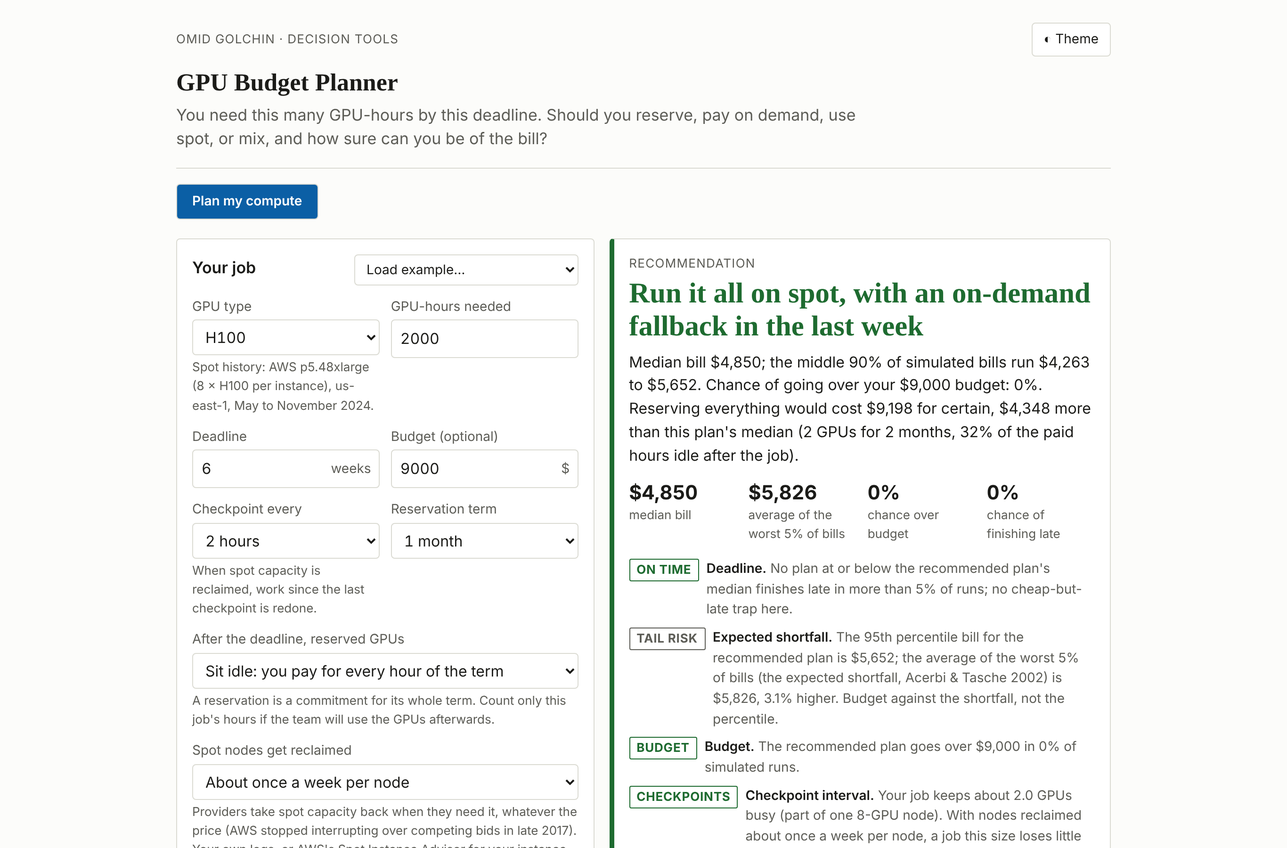
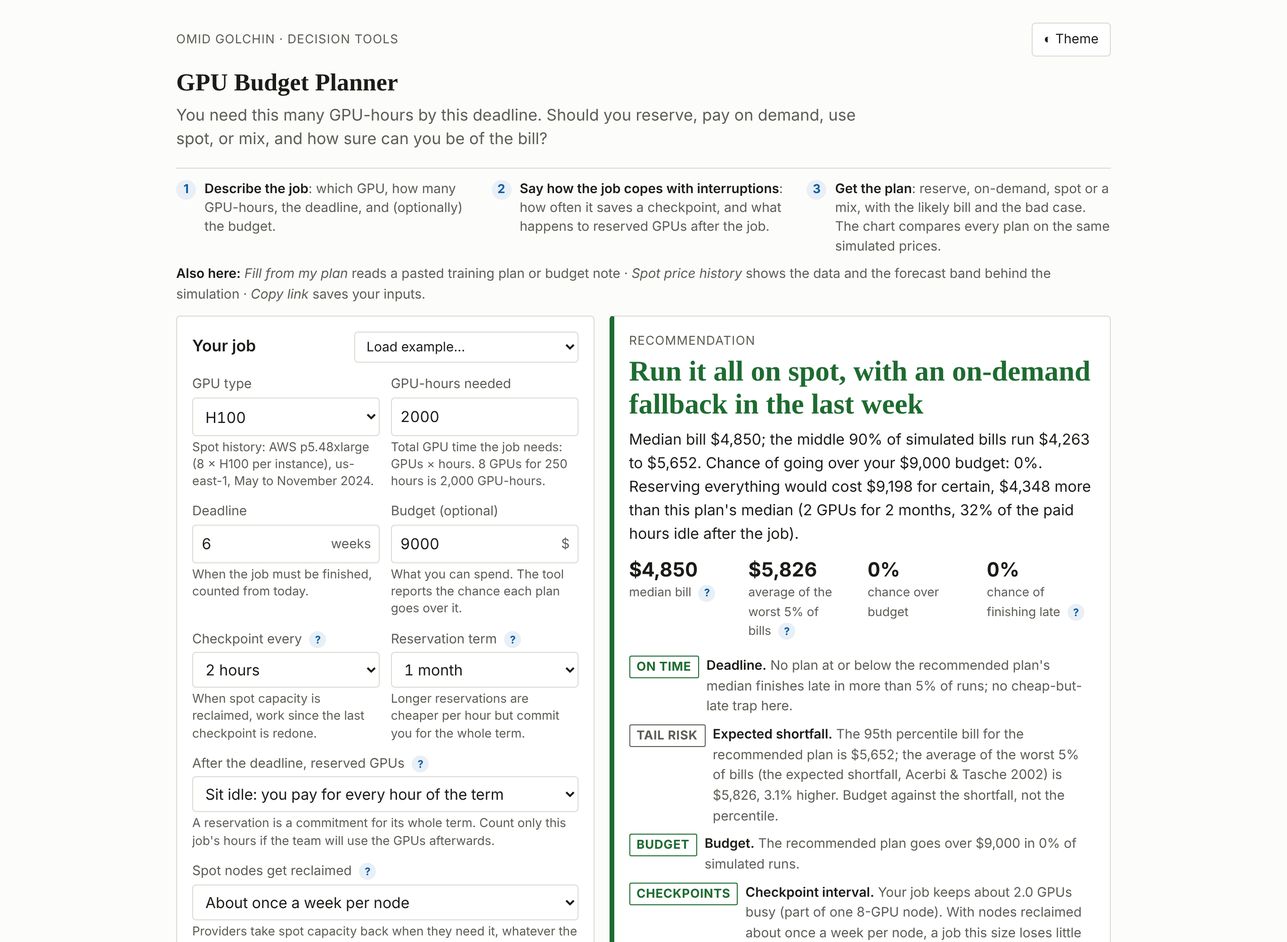
Drop the single-tab switch; explain every input and result
Each mode now opens with a three-step guide, every input has a hint saying what the number is and why it matters, and technical terms in inputs and results have a ? that opens a plain-language explanation. Kit v3: explanations, arrow-key tabs, aligned input columns, slanted category labels on crowded charts, one shared list of tools in the footer. README, hero GIF and screenshots match the page.

Changed region(s): [[0.1245, 0.0311, 0.8712, 1.0], [0.8089, 0.0311, 0.8712, 0.0622]]

diff --git a/docs/tool-common.js b/docs/tool-common.js
@@ -1,4 +1,4 @@
-/* omid-tools-kit / tool-common.js: helpers shared by every tool (v2).
+/* omid-tools-kit / tool-common.js: helpers shared by every tool (v3).
  *
  *   Tool.readParams(defaults)      inputs from the URL query, typed like defaults
  *   Tool.writeParams(obj)          inputs into the URL (replaceState, no reload)
@@ -6,6 +6,9 @@
  *   Tool.fmt.*                     number formatting
  *   Tool.lineChart(el, spec)       a small, dependency-free SVG line chart
  *   Tool.assist(config)            the "Fill from description" AI assist
+ *   Tool.explain(glossary)         "?" buttons that open a plain-language explanation
+ *   Tool.siblings(currentRepo)     the "More tools" footer line, from one shared list
+ *   Tool.tabs(tablist)             arrow-key support for a mode switch
  *
  * No dependencies. Works from file:// and on GitHub Pages.
  */
@@ -132,6 +135,14 @@
     var yMax = spec.yMax != null ? spec.yMax : Math.max.apply(null, ys);
     if (yMax === yMin) { yMax += 1; yMin -= 1; }
     if (spec.yMax == null) yMax += (yMax - yMin) * 0.06;
+    // category labels that do not fit side by side are slanted, with room made below
+    var slant = false;
+    if (spec.xTicks && spec.xFormat && spec.xTicks.length > 1) {
+      var maxLen = 0;
+      spec.xTicks.forEach(function (v) { maxLen = Math.max(maxLen, String(spec.xFormat(v)).length); });
+      var room = (W - m.l - m.r) / spec.xTicks.length;
+      if (maxLen * 6.3 > room - 6) { slant = true; m.b += Math.min(78, maxLen * 4.4); }
+    }
     var X = function (v) { return m.l + (v - xMin) / (xMax - xMin || 1) * (W - m.l - m.r); };
     var Y = function (v) { return H - m.b - (v - yMin) / (yMax - yMin) * (H - m.t - m.b); };
     var svg = el("svg", { viewBox: "0 0 " + W + " " + H, role: "img", "aria-label": spec.aria || spec.yTitle || "chart" }, host);
@@ -148,7 +159,9 @@
     xt.forEach(function (v) {
       if (v < xMin - 1e-12 || v > xMax + 1e-12) return;
       el("line", { x1: X(v), x2: X(v), y1: H - m.b, y2: H - m.b + 4, stroke: muted }, svg);
-      var t = el("text", { x: X(v), y: H - m.b + 17, "text-anchor": "middle" }, svg); t.textContent = xFmt(v);
+      var t = slant ? el("text", { x: X(v) + 4, y: H - m.b + 13, "text-anchor": "end", transform: "rotate(-38 " + (X(v) + 4) + " " + (H - m.b + 13) + ")" }, svg)
+        : el("text", { x: X(v), y: H - m.b + 17, "text-anchor": "middle" }, svg);
+      t.textContent = xFmt(v);
     });
     el("line", { x1: m.l, x2: W - m.r, y1: H - m.b, y2: H - m.b, stroke: muted }, svg);
     if (spec.xTitle) { var xtT = el("text", { x: (m.l + W - m.r) / 2, y: H - 6, "text-anchor": "middle", class: "title" }, svg); xtT.textContent = spec.xTitle; }
@@ -390,7 +403,144 @@
     return { buildPrompt: function (t) { return buildPrompt(cfg, t); }, parseReply: parseReply };
   }
 
-  var api = { readParams: readParams, writeParams: writeParams, copy: copy, fmt: fmt, lineChart: lineChart, niceTicks: niceTicks, assist: assist, _buildPrompt: buildPrompt, _parseReply: parseReply, _quoteFound: quoteFound, _coerce: coerce };
+
+  /* ---------------- explanations ("?" buttons) ----------------
+   * Markup: <button type="button" class="tip" data-tip="key">?</button>
+   * placed next to a label or result. glossary[key] = { t: "Term", d: "Plain explanation" }.
+   * The explanation opens as a small card under the button; Esc, a click
+   * elsewhere, or switching modes closes it. No layout shift: the card floats.
+   */
+  var tipCard = null, tipOwner = null;
+  function closeTip() {
+    if (tipCard) { tipCard.remove(); tipCard = null; }
+    if (tipOwner) { tipOwner.setAttribute("aria-expanded", "false"); tipOwner = null; }
+  }
+  function placeTip(btn) {
+    if (!tipCard) return;
+    var r = btn.getBoundingClientRect(), vw = document.documentElement.clientWidth;
+    var w = Math.min(340, vw - 24);
+    tipCard.style.width = w + "px";
+    var left = Math.max(12, Math.min(r.left + r.width / 2 - w / 2, vw - w - 12));
+    tipCard.style.left = (left + window.scrollX) + "px";
+    tipCard.style.top = (r.bottom + window.scrollY + 6) + "px";
+  }
+  var GLOSS = {};
+  function decorate(root) {
+    (root.querySelectorAll ? root : document).querySelectorAll("[data-tip]:not(.tip)").forEach(function (btn) {
+      var g = GLOSS[btn.getAttribute("data-tip")];
+      if (!g) return;
+      btn.classList.add("tip");
+      if (btn.tagName === "BUTTON") btn.type = "button";
+      if (!btn.textContent.trim()) btn.textContent = "?";
+      btn.setAttribute("aria-label", "What is " + g.t.replace(/[.?:]$/, "") + "?");
+      btn.setAttribute("aria-expanded", "false");
+      // keep the "?" on the same line as the last word before it
+      var prev = btn.previousSibling;
+      if (prev && prev.nodeType === 3 && /\S/.test(prev.nodeValue) && !(btn.parentNode.classList && btn.parentNode.classList.contains("nowrap"))) {
+        var m = prev.nodeValue.match(/^([\s\S]*?)(\S+)(\s*)$/);
+        if (m) {
+          prev.nodeValue = m[1];
+          var span = document.createElement("span"); span.className = "nowrap";
+          span.appendChild(document.createTextNode(m[2] + (m[3] ? "\u00a0" : "")));
+          btn.parentNode.insertBefore(span, btn); span.appendChild(btn);
+        }
+      }
+    });
+  }
+  /* Align labels, inputs and hints across the two input columns (CSS subgrid). */
+  function alignFields(root) {
+    if (typeof CSS === "undefined" || !CSS.supports || !CSS.supports("grid-template-rows", "subgrid")) return;
+    (root || document).querySelectorAll(".fields").forEach(function (grid) {
+      grid.classList.add("sg-on");
+      Array.prototype.forEach.call(grid.children, function (f) {
+        if (!f.classList.contains("field") || f.classList.contains("full") || f.classList.contains("sg")) return;
+        var kids = Array.prototype.slice.call(f.children);
+        if (!kids.length || kids[0].tagName !== "LABEL" || kids.length < 2) return;
+        var after = document.createElement("div"); after.className = "field-after";
+        kids.slice(2).forEach(function (k) { after.appendChild(k); });
+        f.appendChild(after); f.classList.add("sg");
+      });
+    });
+  }
+  function explain(glossary) {
+    Object.keys(glossary || {}).forEach(function (k) { GLOSS[k] = glossary[k]; });
+    decorate(document);
+    if (explain._wired) return;
+    explain._wired = true;
+    new MutationObserver(function (ms) { ms.forEach(function (m) { m.addedNodes.forEach(function (n) { if (n.nodeType === 1) { if (n.hasAttribute("data-tip")) decorate(n.parentNode || document); else decorate(n); } }); }); })
+      .observe(document.body, { childList: true, subtree: true });
+    document.addEventListener("click", function (e) {
+      var btn = e.target.closest ? e.target.closest("[data-tip]") : null;
+      if (btn && GLOSS[btn.getAttribute("data-tip")]) {
+        e.preventDefault();
+        var same = tipOwner === btn; closeTip(); if (same) return;
+        var g = GLOSS[btn.getAttribute("data-tip")];
+        tipCard = document.createElement("div");
+        tipCard.className = "tip-card"; tipCard.setAttribute("role", "note");
+        tipCard.id = "tipc-" + Math.random().toString(36).slice(2, 8);
+        btn.setAttribute("aria-describedby", tipCard.id);
+        tipCard.innerHTML = '<p class="tip-t">' + esc(g.t) + '</p><p class="tip-d">' + g.d + "</p>";
+        document.body.appendChild(tipCard);
+        tipOwner = btn; btn.setAttribute("aria-expanded", "true"); placeTip(btn);
+        return;
+      }
+      if (tipCard && !tipCard.contains(e.target)) closeTip();
+    });
+    document.addEventListener("keydown", function (e) { if (e.key === "Escape" && tipCard) { var o = tipOwner; closeTip(); if (o) o.focus(); } });
+    window.addEventListener("resize", function () { if (tipOwner) placeTip(tipOwner); });
+  }
+
+  /* ---------------- the shared tool list ---------------- */
+  var TOOLS = [
+    ["bayesian-ab-lab", "A/B Test Decision Tool"],
+    ["queue-simulator", "Call Center Staffing Planner"],
+    ["experiment-hazard-simulator", "Agent Eval Planner"],
+    ["llm-eval-error-bar", "Error Bars for LLM Evals"],
+    ["ordering-policy-tester", "Ordering Policy Tester"],
+    ["order-quantity-planner", "Order Quantity Planner"],
+    ["production-line-simulator", "Production Line Bottleneck Finder"],
+    ["persuasion-checker", "Which Draft Persuades?"],
+    ["gpu-budget-planner", "GPU Budget Planner"]
+  ];
+  function siblings(current) {
+    var host = document.querySelector(".kit-siblings");
+    if (!host) return;
+    host.innerHTML = '<span class="kit-siblings-label">More tools:</span> ' + TOOLS.map(function (t) {
+      return t[0] === current ? '<a href="https://omidgolchin.github.io/' + t[0] + '/" aria-current="page">' + t[1] + "</a>"
+        : '<a href="https://omidgolchin.github.io/' + t[0] + '/">' + t[1] + "</a>";
+    }).join(" · ");
+  }
+
+  /* ---------------- tabs: arrow keys, panels ---------------- */
+  function tabs(list) {
+    list = list || document.querySelector("[role=tablist]");
+    if (!list) return;
+    var items = Array.prototype.slice.call(list.querySelectorAll("[role=tab]"));
+    items.forEach(function (t) {
+      t.addEventListener("click", function () { closeTip(); });
+      t.addEventListener("keydown", function (e) {
+        var i = items.indexOf(t), j = -1;
+        if (e.key === "ArrowRight") j = (i + 1) % items.length;
+        else if (e.key === "ArrowLeft") j = (i - 1 + items.length) % items.length;
+        else if (e.key === "Home") j = 0; else if (e.key === "End") j = items.length - 1;
+        if (j < 0) return;
+        e.preventDefault(); items[j].focus(); items[j].click();
+      });
+    });
+    var sync = function () { items.forEach(function (t) { t.tabIndex = t.getAttribute("aria-selected") === "true" ? 0 : -1; }); };
+    sync(); new MutationObserver(sync).observe(list, { subtree: true, attributes: true, attributeFilter: ["aria-selected"] });
+  }
+
+  if (typeof document !== "undefined") {
+    document.addEventListener("DOMContentLoaded", function () {
+      var m = location.pathname.match(/\/([^\/]+)\/(?:docs\/)?(?:index\.html)?$/);
+      siblings(m ? m[1] : "");
+      tabs();
+      alignFields();
+    });
+  }
+
+  var api = { explain: explain, alignFields: alignFields, closeTip: closeTip, siblings: siblings, tabs: tabs, TOOLS: TOOLS, readParams: readParams, writeParams: writeParams, copy: copy, fmt: fmt, lineChart: lineChart, niceTicks: niceTicks, assist: assist, _buildPrompt: buildPrompt, _parseReply: parseReply, _quoteFound: quoteFound, _coerce: coerce };
   if (typeof module !== "undefined" && module.exports) module.exports = api;
   if (typeof window !== "undefined") window.Tool = api;
 })();

diff --git a/docs/index.html b/docs/index.html
@@ -27,8 +27,13 @@
     <p class="kit-tagline">You need this many GPU-hours by this deadline. Should you reserve, pay on demand, use spot, or mix, and how sure can you be of the bill?</p>
   </header>
 
-  <div class="tool-modes" role="tablist" aria-label="Mode">
-    <button type="button" role="tab" class="active" aria-selected="true">Plan my compute</button>
+  <div class="guide" aria-label="How to use this tool">
+    <ol class="steps">
+      <li><b>Describe the job</b>: which GPU, how many GPU-hours, the deadline, and (optionally) the budget.</li>
+      <li><b>Say how the job copes with interruptions</b>: how often it saves a checkpoint, and what happens to reserved GPUs after the job.</li>
+      <li><b>Get the plan</b>: reserve, on-demand, spot or a mix, with the likely bill and the bad case. The chart compares every plan on the same simulated prices.</li>
+    </ol>
+    <p class="also"><b>Also here:</b> <i>Fill from my plan</i> reads a pasted training plan or budget note · <i>Spot price history</i> shows the data and the forecast band behind the simulation · <i>Copy link</i> saves your inputs.</p>
   </div>
 
   <div class="work">
@@ -45,10 +50,10 @@
             <option value="v100">V100 (older generation)</option>
           </select>
           <div class="hint" id="gpuHint"></div></div>
-        <div class="field"><label for="hours">GPU-hours needed</label><input id="hours" type="number" min="1" step="any" inputmode="decimal"></div>
-        <div class="field"><label for="weeks">Deadline</label><div class="input-wrap"><input id="weeks" type="number" min="1" max="52" step="1" inputmode="numeric"><span class="unit">weeks</span></div></div>
-        <div class="field"><label for="budget">Budget <span class="muted">(optional)</span></label><div class="input-wrap"><input id="budget" type="number" min="0" step="any" inputmode="decimal" placeholder="no limit"><span class="unit">$</span></div></div>
-        <div class="field"><label for="ckpt">Checkpoint every</label>
+        <div class="field"><label for="hours">GPU-hours needed</label><input id="hours" type="number" min="1" step="any" inputmode="decimal"><div class="hint">Total GPU time the job needs: GPUs × hours. 8 GPUs for 250 hours is 2,000 GPU-hours.</div></div>
+        <div class="field"><label for="weeks">Deadline</label><div class="input-wrap"><input id="weeks" type="number" min="1" max="52" step="1" inputmode="numeric"><span class="unit">weeks</span></div><div class="hint">When the job must be finished, counted from today.</div></div>
+        <div class="field"><label for="budget">Budget <span class="muted">(optional)</span></label><div class="input-wrap"><input id="budget" type="number" min="0" step="any" inputmode="decimal" placeholder="no limit"><span class="unit">$</span></div><div class="hint">What you can spend. The tool reports the chance each plan goes over it.</div></div>
+        <div class="field"><label for="ckpt">Checkpoint every <button type="button" data-tip="ckpt"></button></label>
           <select id="ckpt">
             <option value="0.5">30 minutes</option>
             <option value="1">1 hour</option>
@@ -59,7 +64,7 @@
             <option value="168">Once a week</option>
           </select>
           <div class="hint">When spot capacity is reclaimed, work since the last checkpoint is redone.</div></div>
-        <div class="field"><label for="term">Reservation term</label>
+        <div class="field"><label for="term">Reservation term <button type="button" data-tip="term"></button></label>
           <select id="term">
             <option value="1">1 month</option>
             <option value="3">3 months</option>
@@ -67,14 +72,14 @@
             <option value="12">12 months</option>
             <option value="24">24 months</option>
             <option value="36">36 months</option>
-          </select></div>
-        <div class="field full"><label for="after">After the deadline, reserved GPUs</label>
+          </select><div class="hint">Longer reservations are cheaper per hour but commit you for the whole term.</div></div>
+        <div class="field full"><label for="after">After the deadline, reserved GPUs <button type="button" data-tip="after"></button></label>
           <select id="after">
             <option value="idle" selected>Sit idle: you pay for every hour of the term</option>
             <option value="reuse">Go to other work: charge this job only its hours</option>
           </select>
           <div class="hint">A reservation is a commitment for its whole term. Count only this job's hours if the team will use the GPUs afterwards.</div></div>
-        <div class="field full"><label for="reclaim">Spot nodes get reclaimed</label>
+        <div class="field full"><label for="reclaim">Spot nodes get reclaimed <button type="button" data-tip="reclaim"></button></label>
           <select id="reclaim">
             <option value="0">Never: price cap only</option>
             <option value="0.033333">About once a month per node</option>
@@ -110,7 +115,7 @@
   </div>
 
   <section class="panel" style="margin-top:16px">
-    <h2>What each plan costs</h2>
+    <h2>What each plan costs <button type="button" data-tip="plans"></button></h2>
     <div class="svgchart" id="boxChart"></div>
     <p class="chart-caption" id="boxCaption"></p>
   </section>
@@ -123,8 +128,8 @@
         <div class="field"><label for="block">Bootstrap block length</label>
           <select id="block"><option value="7">7 days</option><option value="14">14 days</option><option value="28">28 days</option></select>
           <div class="hint">How much price history is resampled at a time. Longer blocks keep longer price runs. 28 days scored best in the coverage backtest.</div></div>
-        <div class="field"><label for="paths">Simulated price paths</label>
-          <select id="paths"><option value="200">200</option><option value="400">400</option><option value="800">800</option></select></div>
+        <div class="field"><label for="paths">Simulated price paths <button type="button" data-tip="paths"></button></label>
+          <select id="paths"><option value="200">200</option><option value="400">400</option><option value="800">800</option></select><div class="hint">More paths give steadier percentiles but take a little longer.</div></div>
       </div>
     </div>
   </details>
@@ -164,11 +169,7 @@ expected shortfall = average of the bills at or above the 95th percentile</div>
   </details>
 
   <footer class="kit-footer">
-    <p class="kit-siblings"><span class="kit-siblings-label">More tools:</span>
-      <a href="https://omidgolchin.github.io/bayesian-ab-lab/">A/B Test Decision Tool</a> ·
-      <a href="https://omidgolchin.github.io/queue-simulator/">Call Center Staffing Planner</a> ·
-      <a href="https://omidgolchin.github.io/experiment-hazard-simulator/">Agent Eval Planner</a> ·
-      <a href="https://omidgolchin.github.io/gpu-budget-planner/" aria-current="page">GPU Budget Planner</a></p>
+    <p class="kit-siblings"></p>
     <p>Built by Omid Golchin · <a href="https://github.com/omidgolchin/gpu-budget-planner">Code, tests and design decisions</a> · Everything runs in your browser; nothing you type is sent anywhere unless you use the AI fill with your own key.</p>
   </footer>
 </main>

diff --git a/docs/app.js b/docs/app.js
@@ -201,11 +201,11 @@
     $("verdict").className = "panel verdict " + rec.cls;
     last.title = title; last.body = body;
 
-    var k = [[F.money(W.median), "median bill"], [F.money(W.es95), "average of the worst 5% of bills"]];
+    var k = [[F.money(W.median), "median bill", "median"], [F.money(W.es95), "average of the worst 5% of bills", "es"]];
     if (v.budget !== null) k.push([F.pct(W.pOver, 0), "chance over budget"]);
     else k.push([W.interruptions ? W.interruptions.toFixed(1) : "0", "spot interruptions per run"]);
-    k.push([F.pct(W.pMiss, 0), "chance of finishing late"]);
-    $("kpis").innerHTML = k.map(function (x) { return '<div class="kpi"><span class="k-val">' + x[0] + '</span><span class="k-lbl">' + x[1] + "</span></div>"; }).join("");
+    k.push([F.pct(W.pMiss, 0), "chance of finishing late", "late"]);
+    $("kpis").innerHTML = k.map(function (x) { return '<div class="kpi"><span class="k-val">' + x[0] + '</span><span class="k-lbl">' + x[1] + (x[2] ? ' <button type="button" data-tip="' + x[2] + '"></button>' : "") + "</span></div>"; }).join("");
 
     var c = [];
     /* Deadline risk: a plan no pricier than the winner that is often late. */
@@ -370,6 +370,18 @@
       ", on-demand " + price(last.pOd) + "/GPU-hour, reserved " + price(last.pRes) + " (" + v.term + "-month term)" +
       (v.budget !== null ? ", budget " + F.money(v.budget) : "") + ".",
       "Open with these inputs: " + location.href].join("\n"), $("toast"), "Summary copied.");
+  });
+
+  Tool.explain({
+    ckpt: { t: "Checkpoints", d: "A checkpoint saves the training state so a stopped job can resume. Spot GPUs can be taken back at short notice; everything since the last checkpoint is lost and redone. Frequent checkpoints make spot cheaper in practice." },
+    term: { t: "Reservation term", d: "Reserved capacity is bought for a fixed term at a discount. You pay for every hour of the term, used or not, so a long term only pays off if the GPUs stay busy." },
+    after: { t: "Reserved GPUs after the deadline", d: "If the reservation outlasts the job, the remaining hours are either wasted (you still pay) or used by other work. Only count them as used if your team will really use them." },
+    reclaim: { t: "Spot reclaims", d: "How often the provider takes spot capacity back. Each reclaim costs the work since the last checkpoint plus restart time. The simulation draws reclaims at random at this rate (a Poisson process) for each node." },
+    paths: { t: "Simulated price paths", d: "Future spot prices are unknown, so the tool builds many plausible price paths by resampling blocks of real price history (a block bootstrap) and prices every plan on each one." },
+    plans: { t: "Reading the plan chart", d: "Each row is a plan. The box covers the middle 50% of simulated bills, the whiskers the 5th to 95th percentile, and the diamond is the expected shortfall: the average of the worst 5% of bills. A plan whose box is low but whose diamond sits far right is cheap on average and risky in a bad month." },
+    median: { t: "Median bill", d: "Half the simulated price paths give a lower bill, half a higher one. The typical case, not the worst." },
+    es: { t: "Expected shortfall (worst 5%)", d: "The average bill across the worst 5% of simulated outcomes. Budgeting to this, rather than the 95th percentile alone, accounts for how bad the tail can get (Acerbi and Tasche, 2002)." },
+    late: { t: "Chance of finishing late", d: "Share of simulated runs in which interruptions and redone work push the job past the deadline. Plans that miss in more than 5% of runs are not recommended." }
   });
 
   run();

diff --git a/docs/tool.css b/docs/tool.css
@@ -1,5 +1,5 @@
 [hidden] { display: none !important; }
-/* omid-tools-kit / tool.css: the layout shared by every tool (v2).
+/* omid-tools-kit / tool.css: the layout shared by every tool (v3).
  *
  * Loads after kit.css. Adds the tool page pattern:
  *   header, mode switch, [inputs | verdict] two-column work area,
@@ -103,3 +103,38 @@ select.example { font-size: var(--fs-small); }
 
 .footnote { font-size: var(--fs-caption); color: var(--muted); }
 .page-sub { color: var(--muted); font-size: var(--fs-lede); max-width: 70ch; margin: var(--sp-2) 0 0; }
+
+/* ---- v3: how-to guide, explanations, phone fixes ---- */
+.guide { margin: var(--sp-3) 0 0; }
+.guide .steps { list-style: none; counter-reset: step; display: grid; grid-template-columns: repeat(3, minmax(0, 1fr)); gap: var(--sp-3); margin: 0; padding: 0; }
+.guide .steps li { counter-increment: step; position: relative; padding-left: 30px; font-size: var(--fs-small); color: var(--muted); line-height: 1.45; }
+.guide .steps li::before { content: counter(step); position: absolute; left: 0; top: 0; width: 21px; height: 21px; border-radius: 50%; background: var(--accent-soft); color: var(--accent); font-weight: 700; font-size: var(--fs-caption); display: flex; align-items: center; justify-content: center; }
+.guide .steps b { color: var(--fg); font-weight: 600; }
+.guide .also { font-size: var(--fs-small); color: var(--muted); margin: var(--sp-2) 0 0; }
+.guide .also b { color: var(--fg); font-weight: 600; }
+@media (max-width: 720px) { .guide .steps { grid-template-columns: minmax(0, 1fr); gap: var(--sp-2); } }
+
+.tip { display: inline-flex; align-items: center; justify-content: center; width: 18px; height: 18px; min-width: 18px; padding: 0; margin-left: 4px; border-radius: 50%; font-size: 11px; font-weight: 700; line-height: 1; color: var(--accent); background: var(--accent-soft); border: 1px solid transparent; vertical-align: 1px; position: relative; }
+.tip::after { content: ""; position: absolute; inset: -8px; }  /* bigger touch target, same look */
+.tip:hover, .tip[aria-expanded="true"] { border-color: var(--accent); }
+.tip-card { position: absolute; z-index: 50; background: var(--card); color: var(--fg); border: 1px solid var(--border); border-radius: var(--radius); box-shadow: 0 6px 24px rgba(0,0,0,.14); padding: var(--sp-3); }
+.tip-card .tip-t { font-weight: 600; margin: 0 0 4px; font-size: var(--fs-small); }
+.tip-card .tip-d { margin: 0; font-size: var(--fs-small); line-height: 1.5; color: var(--muted); }
+.field label .tip, .kpi .tip, h2 .tip, h3 .tip, legend .tip, th .tip { vertical-align: 0; }
+
+.field .hint { line-height: 1.4; }
+[role=tabpanel]:focus { outline: none; }
+@media (max-width: 600px) {
+  .formula { white-space: pre-wrap; word-break: break-word; }
+  .tool-modes { display: flex; width: 100%; }
+  .tool-modes button { flex: 1 1 0; padding: 9px 8px; }
+  .actions button { min-height: 36px; }
+}
+.nowrap { white-space: nowrap; }
+.fields.sg-on { row-gap: 0; }
+.fields.sg-on > .field.sg { display: grid; grid-row: span 4; grid-template-rows: subgrid; grid-template-columns: minmax(0, 1fr); row-gap: 0; min-width: 0; }
+.fields.sg-on > .field.sg > label { align-self: end; }
+.fields.sg-on > .field.sg::after { content: ""; height: var(--sp-3); }
+.fields.sg-on > :not(.sg) { margin-bottom: var(--sp-3); }
+.fields.sg-on > .group-label { margin: var(--sp-2) 0 6px; }
+.field-after:empty { display: none; }

diff --git a/README.md b/README.md
@@ -2,7 +2,9 @@
 
 For ML engineers and lab managers planning a training run: enter the GPU-hours you need and your deadline, and get a concrete buying plan (reserve, pay on demand, use spot, or a mix) with the median bill, the plausible range, and the chances of going over budget or finishing late.
 
-![The planner recommending all-spot for 2,000 H100-hours, with the cost distribution of all eight plans](docs/screenshots/planner-desktop.png)
+![The planner on four jobs (ablation runs, a tight deadline, a fixed budget, a big lockstep pretrain) and the explanation of expected shortfall](docs/hero.gif)
+
+![The planner on a desktop: the three-step guide, the job inputs with a hint under each, and the recommendation](docs/screenshots/desktop.png)
 
 **Use it:** https://omidgolchin.github.io/gpu-budget-planner/ (runs in your browser; nothing you type leaves it)
 
@@ -15,6 +17,7 @@ For ML engineers and lab managers planning a training run: enter the GPU-hours y
 - A reservation is a commitment: whole GPUs for whole terms, paid whether or not the job still needs them, unless you say the GPUs go on to other work after the deadline.
 - Prices are prefilled from current market data (GetDeploying medians) and the spot history is real (AWS spot archive); every price is editable, because your quote beats a median.
 - The "Fill from my plan" assist reads a pasted plan or budget note and fills the form with your own API key (or a copy-prompt fallback). Every filled value shows the phrase it came from; the model never computes the verdict.
+- **Help where you need it.** The page opens with three steps saying what to enter and what you get; every input has a line under it saying what the number is, why it matters and where to find it; and every technical term in the inputs and results has a **?** that opens a plain-language explanation.
 
 ## Built-in checks
 
